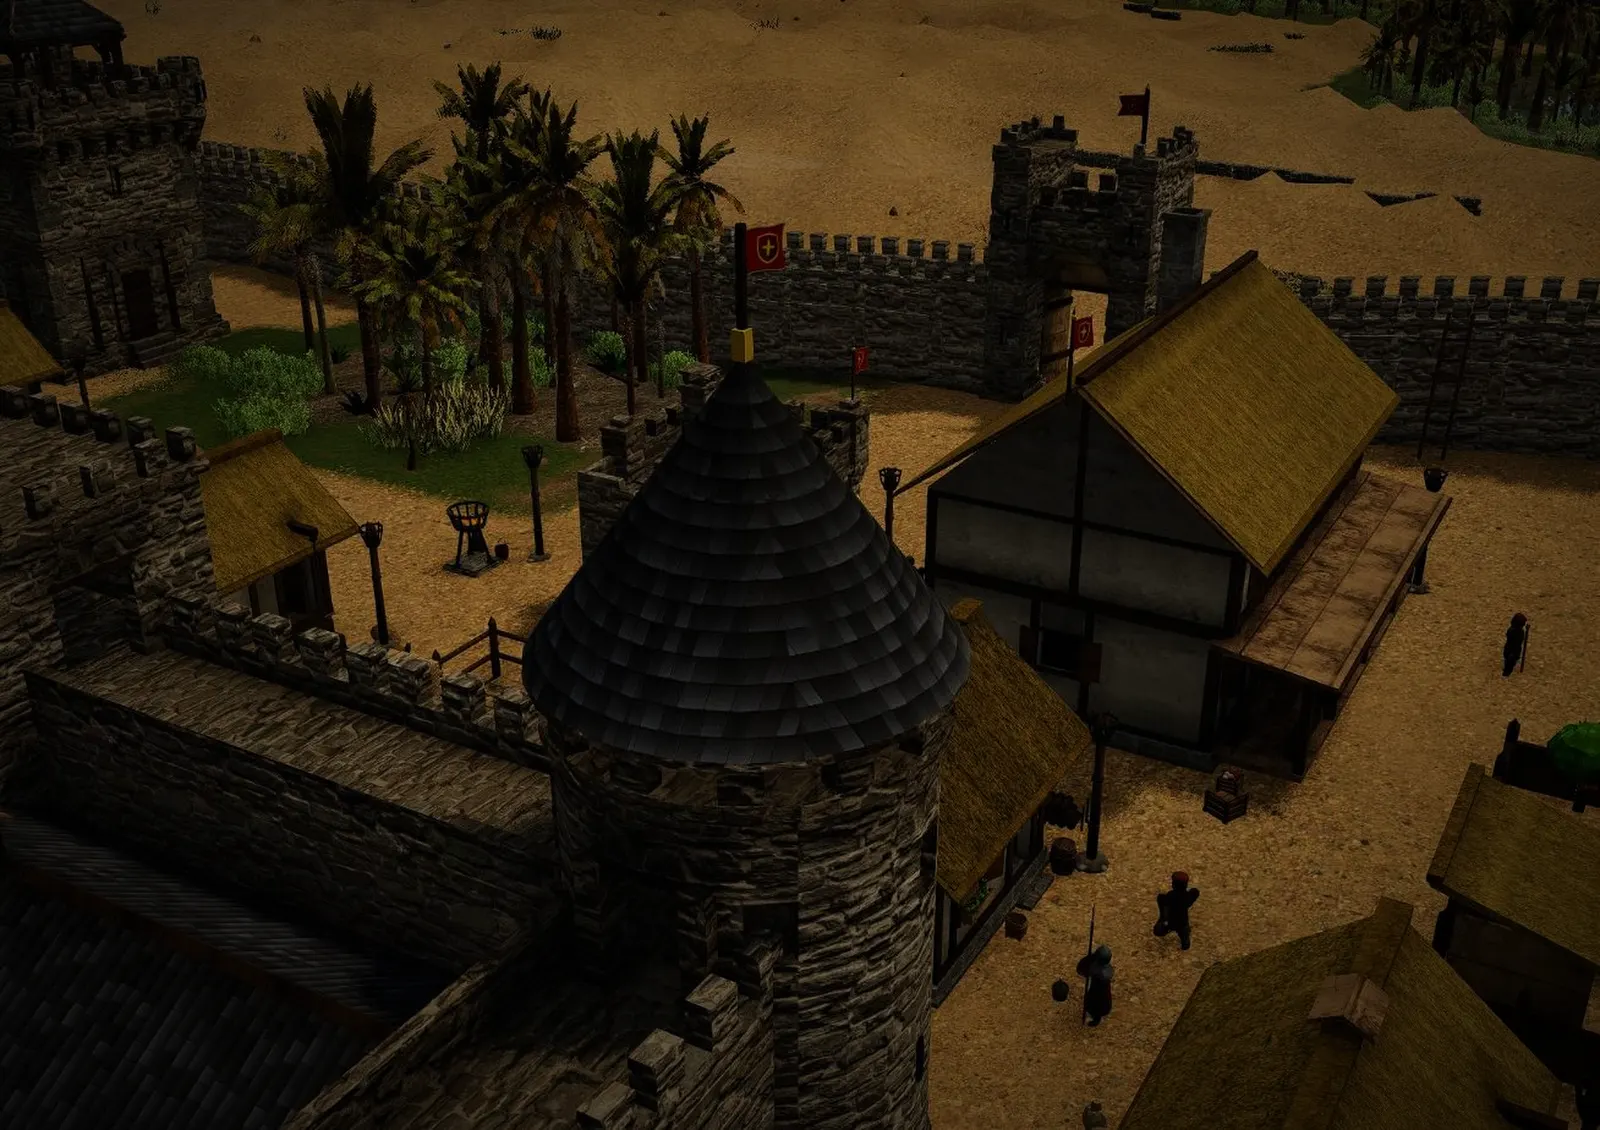
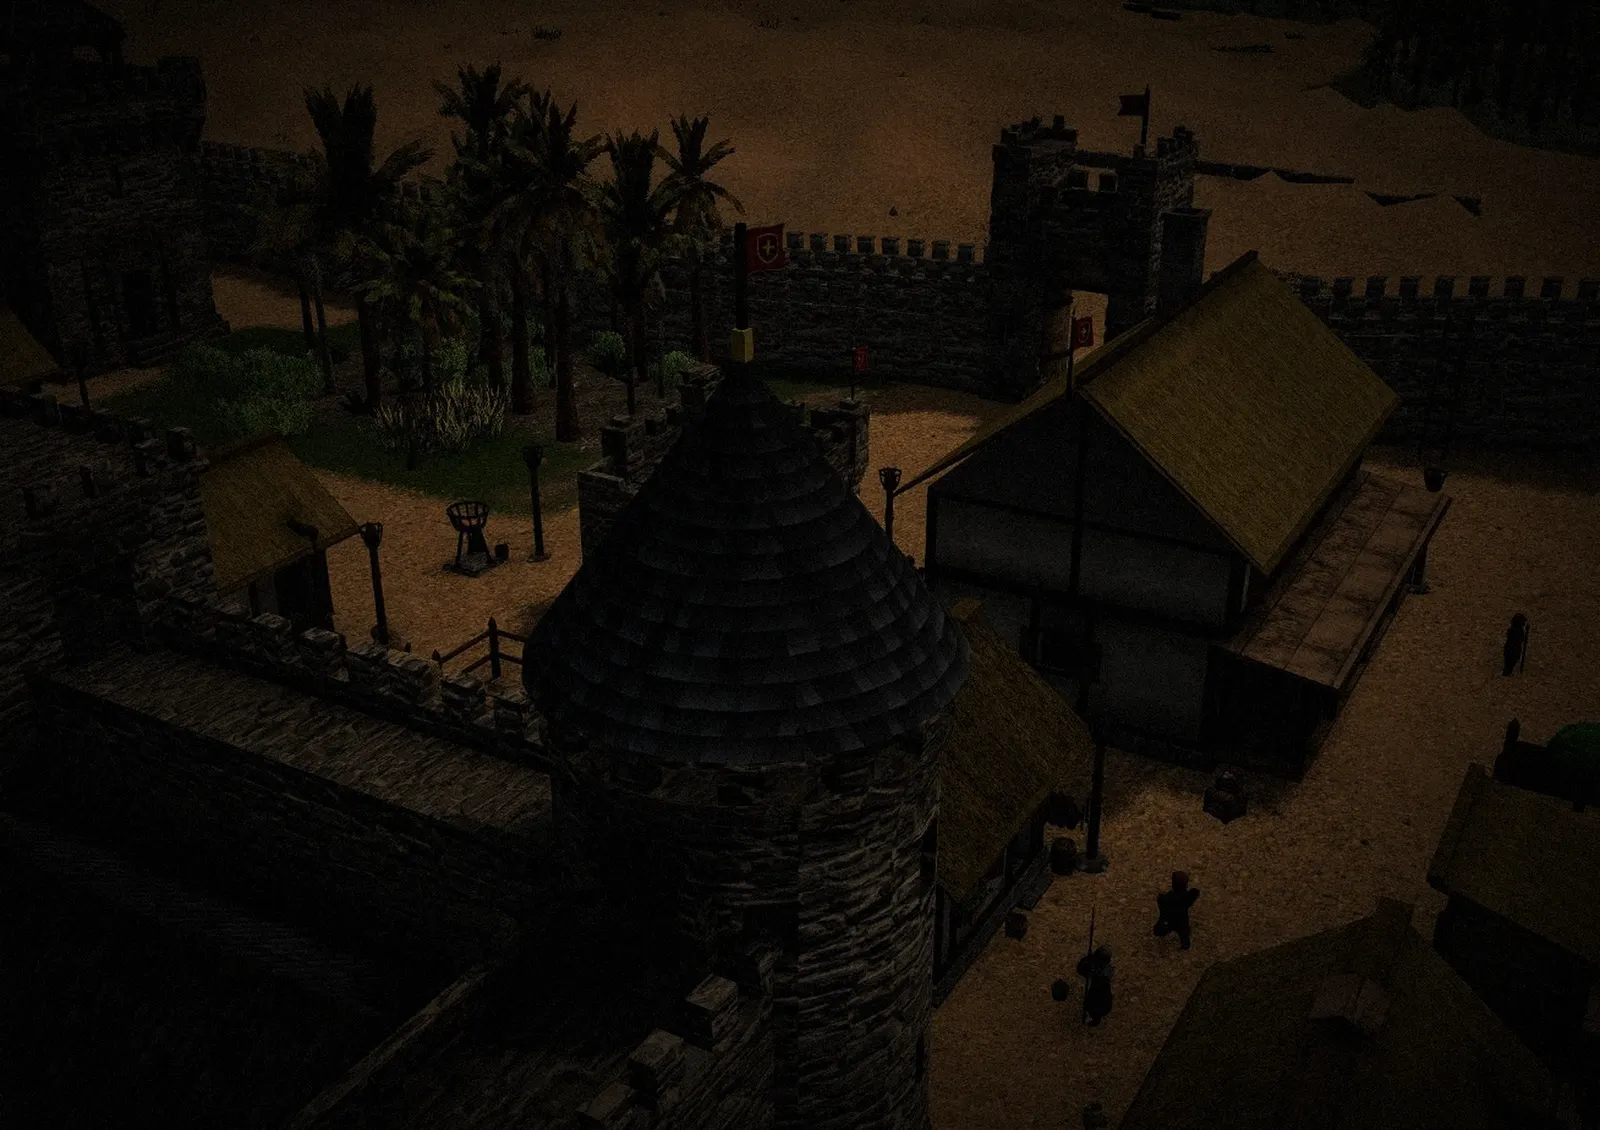
Zdjęcia ekranu wczytywania i menu ciemniejsze i bardziej klimatyczne: zmierzch z bursztynowym światłem i granatowymi cieniami, poświata, mocna winieta, ziarno; zima w chłodnym świetle księżyca
Claude-Session: https://claude.ai/code/session_015cSy42sDt1hku2gD2Ygw2c

diff --git a/src/ui/loadscreen.ts b/src/ui/loadscreen.ts
@@ -29,7 +29,7 @@ export function gameTagline(): string {
  * spodem — widać go, póki zdjęcie się nie wczyta.
  */
 export const SHOTS = ['1-osada', '2-brama', '3-mury', '4-wieza', '5-pustynia', '6-zima'];
-const shotUrl = (i: number): string => `${(import.meta as unknown as { env?: { BASE_URL?: string } }).env?.BASE_URL ?? './'}shots/${SHOTS[i]}.webp`;
+const shotUrl = (i: number): string => `${(import.meta as unknown as { env?: { BASE_URL?: string } }).env?.BASE_URL ?? './'}shots/${SHOTS[i]}.webp?v=2`;   // v: nowe przerobienie zdjęć (przeglądarka nie bierze starych z pamięci)
 /** Pierwsze zdjęcie tego wejścia: losowe, ale inne niż przy poprzednim (odświeżenie menu = kolejne zdjęcie) */
 const firstShot = ((): number => {
   let last = -1;
